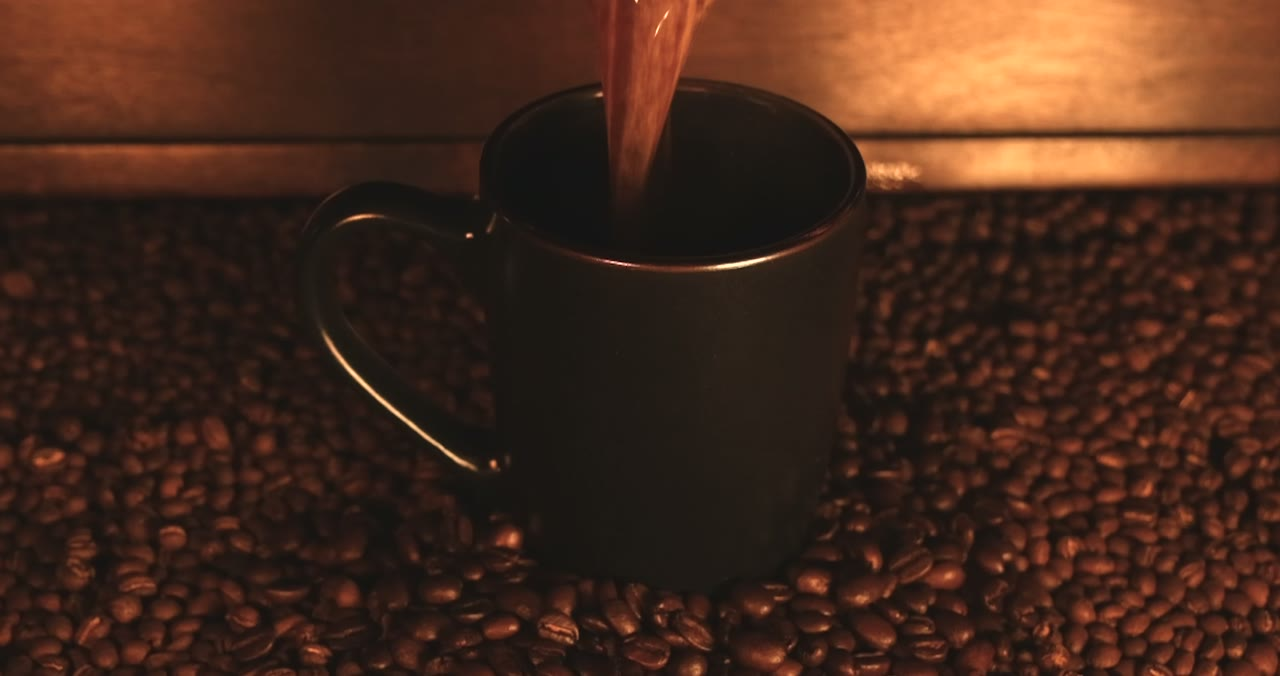
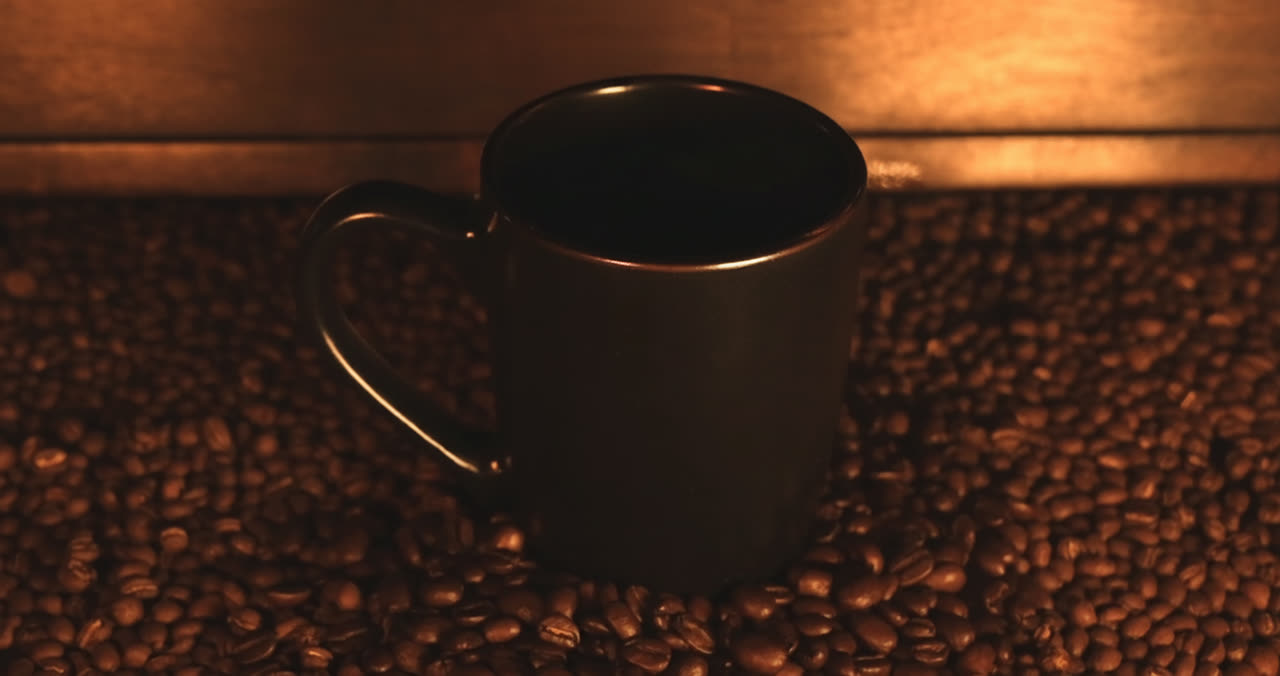
feat(spike): hero встречает пустой кружкой, кофе льётся со 2-го экрана
- пустая кружка (empty.webp, d/m) — струя убрана с первого кадра (Gemini)
- постер = пустая кружка (до JS hero не мигает наливом)
- налив привязан к геометрии hero: старт после ~1 экрана, финиш перед листом
- эффект больше не «бьёт» сразу — сюрприз при скролле

diff --git a/spike.html b/spike.html
@@ -65,7 +65,7 @@
 </head>
 <body>
 
-<img id="poster" src="frames/poster.jpg" alt="Кофе наливается в тёмную кружку" fetchpriority="high">
+<img id="poster" src="frames/poster.jpg" alt="Пустая тёмная кружка на кофейных зёрнах" fetchpriority="high">
 <canvas id="film" aria-hidden="true"></canvas>
 
 <main>
@@ -75,7 +75,7 @@
       <div class="hero-inner fade" id="heroTxt">
         <div class="eyebrow">Jaffa · יפו · спайк-прототип</div>
         <h1>שָׁחוֹר</h1>
-        <div class="sub">крути вниз — кофе льётся, пока ты листаешь</div>
+        <div class="sub">пустая кружка ждёт. крути вниз — и кофе пойдёт</div>
       </div>
       <div class="hint" id="hint"><span>Скролль ↓</span></div>
     </div>
@@ -126,7 +126,7 @@
   var reduced = matchMedia('(prefers-reduced-motion: reduce)').matches;
   var poster = document.getElementById('poster');
   var canvas = document.getElementById('film');
-  if (reduced) { canvas.remove(); return; } // постер остаётся статичным фоном
+  if (reduced) { canvas.remove(); return; } // постер (пустая кружка) остаётся статичным фоном
 
   var isMobile = matchMedia('(max-width: 768px)').matches;
   var N = isMobile ? 54 : 90;
@@ -134,7 +134,13 @@
   var ctx = canvas.getContext('2d');
   var frames = new Array(N);
   var loadedCount = 0;
-  var cur = 0, target = 0, started = false;
+  var cur = 0, target = 0, posterHidden = false;
+
+  // кадр «пустая кружка» — держим его в hero, пока налив не начался
+  var emptyImg = new Image();
+  var emptyReady = false;
+  emptyImg.onload = function(){ emptyReady = true; };
+  emptyImg.src = DIR + 'empty.webp';
 
   var dpr = Math.min(window.devicePixelRatio || 1, 1.5);
   function resize(){
@@ -155,7 +161,6 @@
         im.onload = im.onerror = function(){
           frames[i] = im.complete && im.naturalWidth ? im : null;
           loadedCount++; inFlight--;
-          if (!started && loadedCount >= 12) { started = true; poster.classList.add('hide'); }
           pump();
         };
         im.src = DIR + 'f_' + pad(i) + '.webp';
@@ -185,22 +190,50 @@
   var heroTxt = document.getElementById('heroTxt');
   var hint = document.getElementById('hint');
   var quoteTxt = document.getElementById('quoteTxt');
+  var heroEl = document.querySelector('.chapter');
+
+  function clamp01(v){ return v < 0 ? 0 : v > 1 ? 1 : v; }
 
   function loop(){
-    var max = document.documentElement.scrollHeight - innerHeight;
-    var p = max > 0 ? Math.min(1, Math.max(0, scrollY / max)) : 0;
-    target = p * (N - 1);
-    cur += (target - cur) * 0.16;
-    if (Math.abs(target - cur) < 0.02) cur = target;
-    var im = nearestLoaded(Math.round(cur));
-    if (im) drawCover(im);
+    var ih = innerHeight;
+    // sticky-фаза hero: [0 .. heroEl.height - ih] — тут плёнка полностью видна
+    var heroScroll = heroEl.offsetHeight - ih;
+    // пороги налива в пикселях, привязаны к hero (устойчиво к остальному контенту)
+    var pourStart = ih * 0.82;                 // ~первый экран — читаем заголовок, кружка пустая
+    var pourEnd   = Math.max(pourStart + 1, heroScroll * 0.96); // налив кончается перед светлым листом
+    var y = scrollY;
 
-    // текстовые появления/уходы
-    var fadeOut = Math.min(1, p / 0.10);            // hero-текст тает к 10% прокрутки
-    heroTxt.style.opacity = String(1 - fadeOut);
-    hint.style.opacity = String(1 - Math.min(1, p / 0.05));
-    var q = (p - 0.62) / 0.10;                      // цитата проявляется на 62–72%
-    quoteTxt.style.opacity = String(Math.min(1, Math.max(0, q)));
+    // прогресс наливания 0..1 внутри окна [pourStart, pourEnd]
+    var pour = clamp01((y - pourStart) / (pourEnd - pourStart));
+
+    // до начала налива — рисуем пустую кружку; иначе скраб кадров
+    if (pour <= 0 && emptyReady) {
+      drawCover(emptyImg);
+      cur = target = 0;
+    } else {
+      target = pour * (N - 1);
+      cur += (target - cur) * 0.16;
+      if (Math.abs(target - cur) < 0.02) cur = target;
+      var im = nearestLoaded(Math.round(cur));
+      if (im) drawCover(im);
+      else if (emptyReady) drawCover(emptyImg);
+    }
+
+    // снимаем постер, как только есть чем рисовать (пустая кружка готова)
+    if (!posterHidden && (emptyReady || loadedCount >= 8)) {
+      posterHidden = true; poster.classList.add('hide');
+    }
+
+    // hero-текст держится, пока кружка пустая, и тает прямо перед наливом
+    var heroFade = clamp01((y - (pourStart - ih * 0.35)) / (ih * 0.35));
+    heroTxt.style.opacity = String(1 - heroFade);
+    hint.style.opacity = String(1 - clamp01(y / (ih * 0.5)));
+
+    // цитата — в «Главе 2» (после светлого листа), по глобальному прогрессу
+    var max = document.documentElement.scrollHeight - ih;
+    var gp = max > 0 ? clamp01(y / max) : 0;
+    var q = (gp - 0.64) / 0.10;
+    quoteTxt.style.opacity = String(clamp01(q));
 
     requestAnimationFrame(loop);
   }